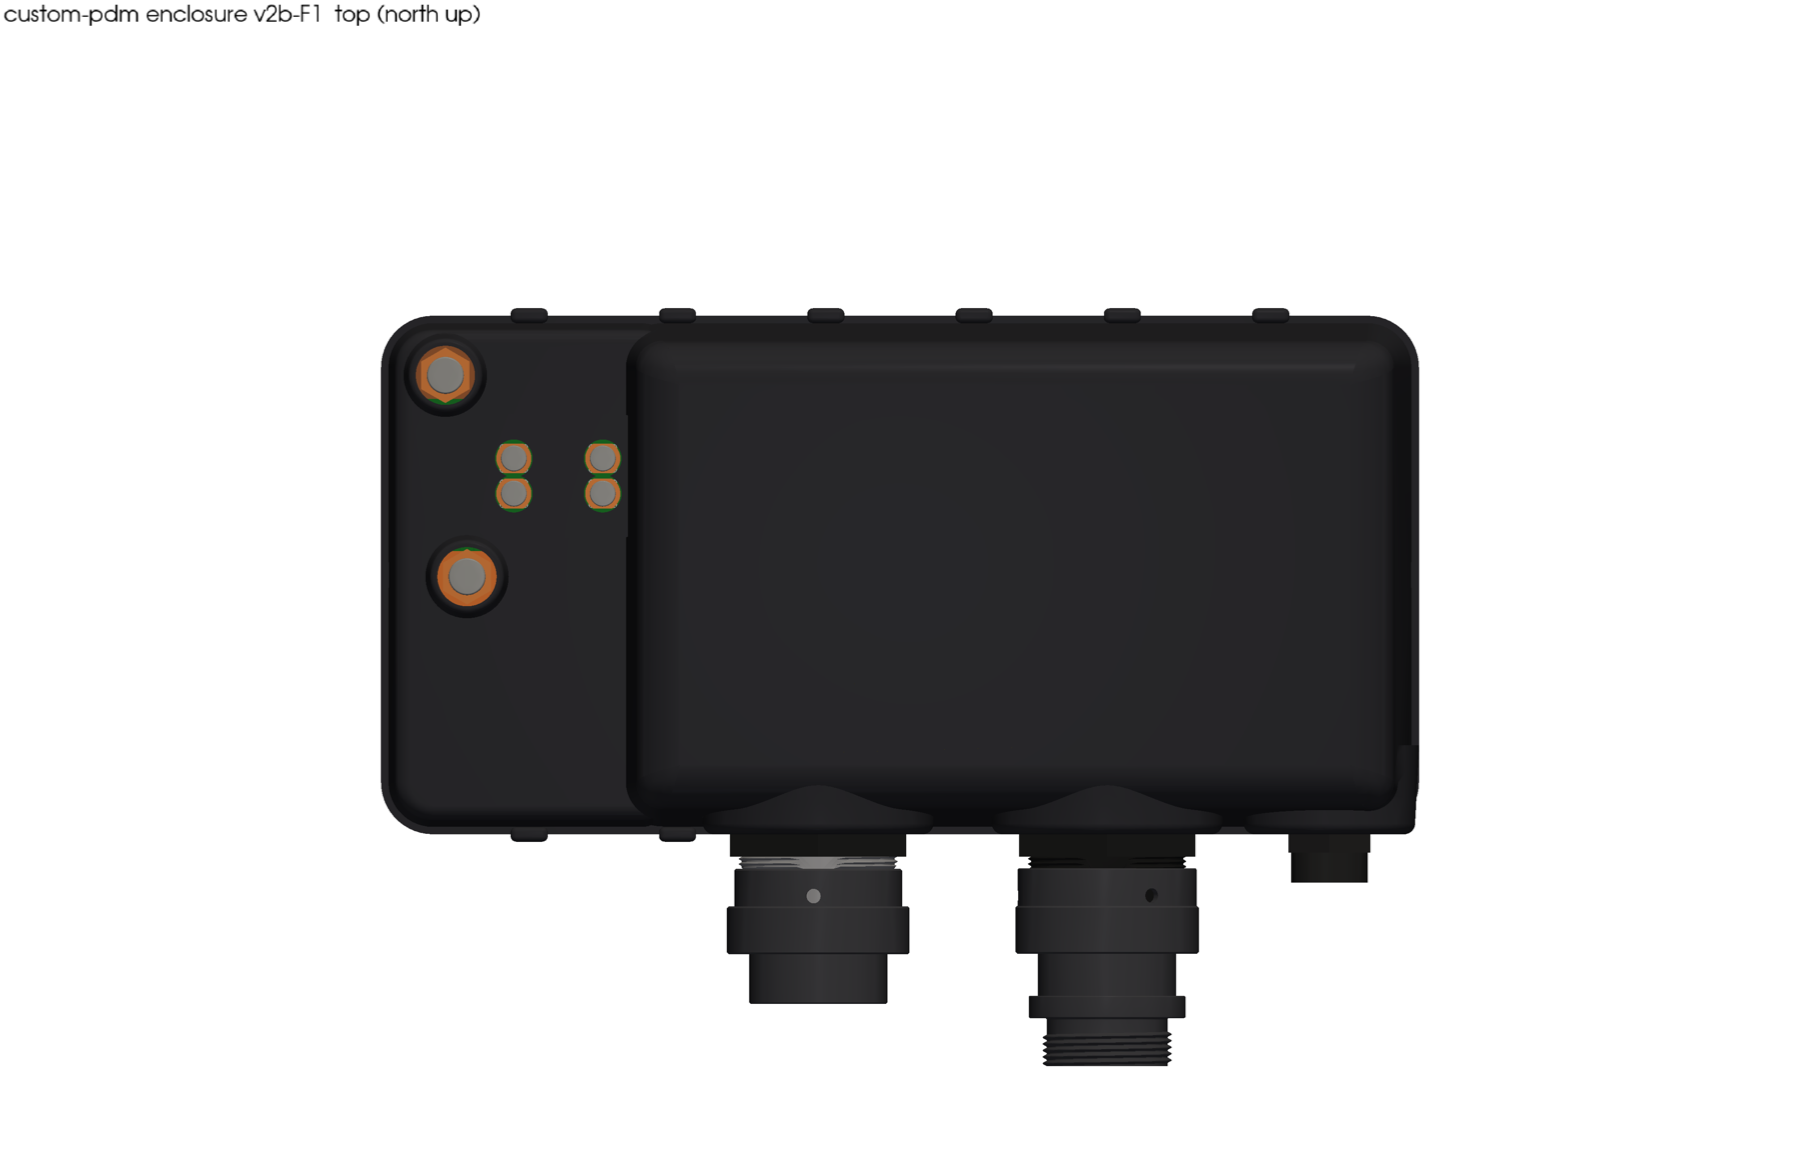
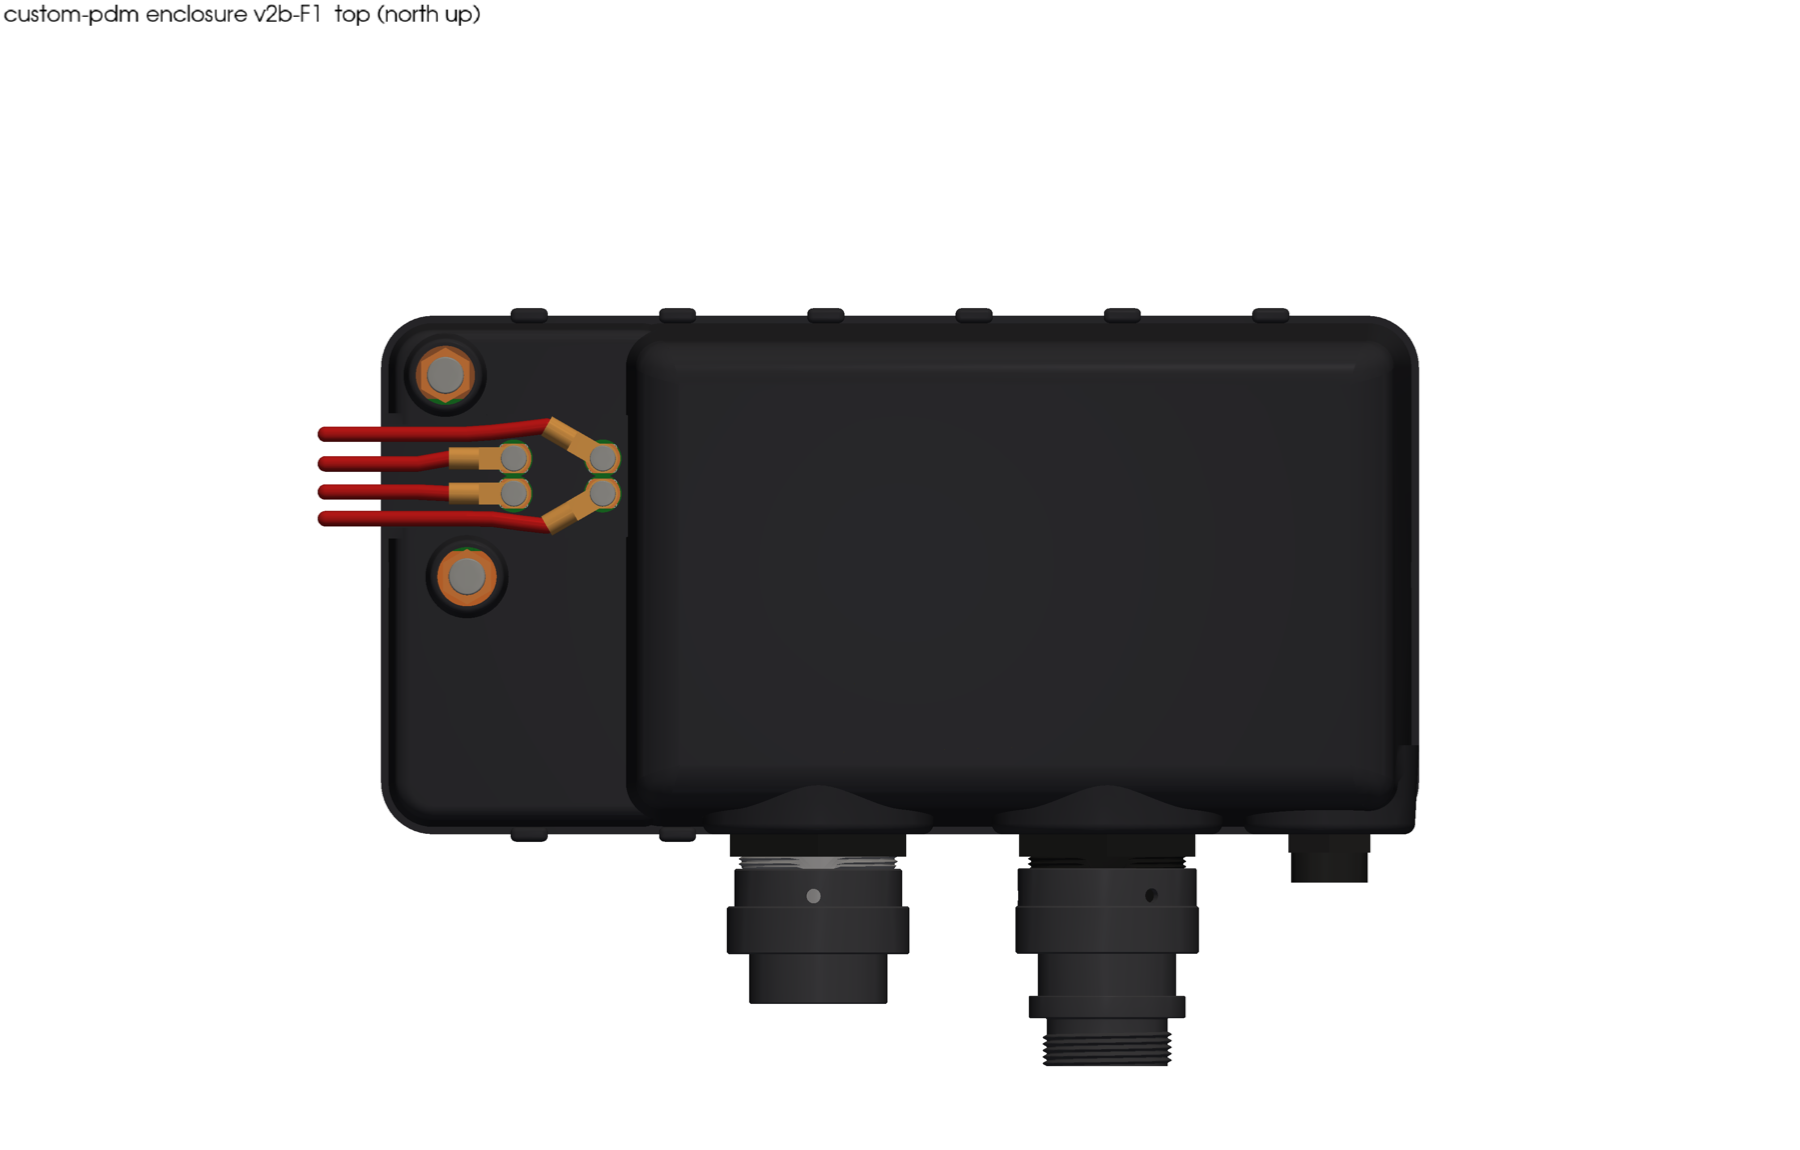
v2b F1: OUT1-4 wire-way to the west lid edge, ring lugs + 10 AWG wires modelled, renders (Dan review b1a-b4a)
Claude-Session: https://claude.ai/code/session_014aA8s43Q562Zi7DSgMxRgH

Changed region(s): [[0.1556, 0.3652, 0.3422, 0.487]]

diff --git a/enclosure/v2b/src/build_v2b.py b/enclosure/v2b/src/build_v2b.py
@@ -52,7 +52,9 @@ P = dict(
     deck_t=3.0, in_boss=4.0, so_m3_len=25.0,
     bar_t=5.0, batt_w=20.0, batt_yc=-63.5, gnd_w=15.0, gnd_yc=-5.0,   # copper bars (C110) 20x5 / 15x5, offset in Y to clear the OUT-bay liner
     boss6_af=13.0, boss4_d=9.5, boss4_flats=8.0, lug_t=2.0,
-    bay_floor_top=19.73,
+    bay_floor_top=19.2,      # OUT1-4 bay floor; lowered 0.53 so the ring-lug barrels (OD 6) clear it
+    out_lug_t=1.0, out_lug_w=8.0, out_lug_L=17.5, out_barrel_d=6.0, out_barrel_L=8.0, out_wire_d=4.2,   # Phoenix 3240083 M4 ring 10-14 AWG (catalogue dims); 10 AWG GXL OD ~4.2 ASSUMED
+    wireway_y0=-47.2, wireway_y1=-19.3,                      # OUT1-4 wire-way (Dan 2026-11-12): between the BATT and GND collars, open at the west lid edge
     corner_r=14.0, draft_deg=6.0, shoulder_z=10.0, shoulder_in=2.0,
     ribbon_w=28.0, ribbon_t=4.0,                               # flat taped wire ribbons (ASSUMED harness form)
 )
@@ -346,9 +348,34 @@ for k, (X, Y) in OUTT.items():
     bo = bo.cut(cyl(3.3, (X, Y, TTOP + L4 - 8), 8.1)).cut(cyl(3.3, (X, Y, TTOP - 0.1), 8.1))   # M4 tap drill 3.3 both ends
     bosses4.append(bo)
     scr.append(("M4 stud 11 (threaded rod)", cyl(4.0, (X, Y, TTOP - 6.0), 11.0)))   # 5 into the boss; lug screw 6 in; 1 mm gap
-    scr.append(("SSH-M4-0.7 x 8", shcs("M4", 8.0, (X, Y, TTOP + L4 + P["lug_t"]))))
+    scr.append(("SSH-M4-0.7 x 8", shcs("M4", 8.0, (X, Y, TTOP + L4 + P["out_lug_t"]))))
 addp("copper-boss-M4-OUT1-4", Compound(bosses4), (0.85, 0.5, 0.25), f"custom C110 copper boss dia {P['boss4_d']} with {P['boss4_flats']} flats (Y), M4 female both ends, 3-axis machinable")
 M6_EXT_TOP = P["collar_top"] + 1.0; M4_EXT_TOP = TTOP + 12.0
+# OUT1-4 ring lugs (Phoenix Contact 3240083, M4, 10-14 AWG; modelled from catalogue dims: 8.0 wide, 17.5 long, 0.99 thick) + 10 AWG wires to the west lid edge
+OB_TOP = TTOP + 12.0
+def ring_lug(X, Y, ang):
+    t, wdt, Lg, bd, bL = P["out_lug_t"], P["out_lug_w"], P["out_lug_L"], P["out_barrel_d"], P["out_barrel_L"]
+    pl = Plane(origin=(X, Y, OB_TOP), x_dir=(math.cos(math.radians(ang)), math.sin(math.radians(ang)), 0), z_dir=(0, 0, 1))
+    tongue = extrude(pl * Circle(wdt / 2), amount=t).solid()      # ring (OD = width 8.0)
+    tongue = tongue.fuse(extrude(pl * Pos((Lg - bL) / 2, 0) * Rectangle(Lg - bL, bd), amount=t).solid())
+    tongue = tongue.cut(cyl(4.3, (X, Y, OB_TOP - 1), t + 2))
+    d = Vector(math.cos(math.radians(ang)), math.sin(math.radians(ang)), 0)
+    b0 = Vector(X, Y, OB_TOP + bd / 2) + d * (Lg - bL)
+    barrel = Solid.make_cylinder(bd / 2, bL, Plane(origin=b0, z_dir=d))
+    return tongue.fuse(barrel), b0 + d * bL
+WZ = OB_TOP + P["out_barrel_d"] / 2                      # wire centre height (barrel axis)
+XE = LX0 - 15.0                                          # wires drawn 15 mm past the west lid edge
+LUGS = {"OUT2": 180.0, "OUT4": 180.0, "OUT1": 210.0, "OUT3": 150.0}
+LANE = {"OUT1": -44.8, "OUT2": -37.6, "OUT4": -30.0, "OUT3": -22.0}
+lugs, owires = [], []
+for k, ang in LUGS.items():
+    X, Y = OUTT[k]; lg, e = ring_lug(X, Y, ang); lugs.append(lg)
+    if k == "OUT1":   path = [(e.X, e.Y, WZ), (28.0, -46.0, WZ), (20.0, -44.9, WZ), (13.0, -44.8, WZ), (5.0, LANE[k], WZ), (XE, LANE[k], WZ)]
+    elif k == "OUT3": path = [(e.X, e.Y, WZ), (28.0, -20.6, WZ), (20.0, -21.5, WZ), (13.0, -22.0, WZ), (5.0, LANE[k], WZ), (XE, LANE[k], WZ)]
+    else:             path = [(e.X, e.Y, WZ), (0.0, LANE[k], WZ), (XE, LANE[k], WZ)]
+    owires.append(tube(path, P["out_wire_d"]))
+addp("ring-lugs-OUT1-4", Compound(lugs), (0.85, 0.6, 0.3), "Phoenix Contact 3240083 ring terminal M4, 10-14 AWG (no maker CAD reachable; modelled from catalogue dims 8.0 x 17.5 x 0.99, barrel OD 6 ASSUMED)", step=False)
+addp("wires-OUT1-4-10AWG", Compound(owires), (0.75, 0.1, 0.1), "OUT1-4 wires 10 AWG GXL (OD 4.2 ASSUMED), 31 A each, out through the lid wire-way to the west edge; ASSUMED routing", step=False)
 # T5-T8 ring lugs + M4 screws (v2b), wires to X1
 for k, (X, Y) in T58.items(): scr.append(("SSH-M4-0.7 x 8", shcs("M4", 8.0, (X, Y, TTOP + P["lug_t"]))))
 
@@ -426,8 +453,13 @@ bft = P["bay_floor_top"]
 well = dblock(bx0, bx1, by0, by1, bft, P["terrace_top"] + 5, r=4)
 liner = dblock(bx0 - w, bx1 + w, by0 - w, by1 + w, bft - w, P["terrace_top"] - 0.5, r=4 + w)
 lid = lid.fuse(liner).cut(well)
-xm = (OUTT["OUT1"][0] + OUTT["OUT2"][0]) / 2
-lid = lid.fuse(box(xm - 1.0, xm + 1.0, by0, by1, bft, P["terrace_top"] - 2.0))
+# (Grok's centre divider rib removed: the OUT1/OUT3 wires pass through there to the wire-way)
+# OUT1-4 wire-way (Dan 2026-11-12): open channel from the bay to the west lid edge, floor = bay floor, between the BATT and GND collars
+wy0, wy1 = P["wireway_y0"], P["wireway_y1"]
+ww_liner = box(LX0 + 0.5, bx0 + 1.0, wy0 - w, wy1 + w, bft - w, P["terrace_top"] - 0.5)
+lid = lid.fuse(ww_liner.cut(box(LX0 - 5, bx0 + 2, wy0, wy1, bft, 200)))
+ww = box(LX0 - 5, bx0 + 2.0, wy0, wy1, bft, P["terrace_top"] + 20)
+lid = lid.cut(ww)
 for k, (X, Y) in OUTT.items(): lid = lid.cut(cyl(10.2, (X, Y, bft - w - 1), w + 2))  # boss dia 9.5 + 0.35 clearance
 # panel cut-outs per TE spec 0425-021-0000 (shell 24): D-hole A 43.08, B 41.45 (flat 19.91 below centre, matching the thread flat in the TE models)
 DFLAT = {}

diff --git a/enclosure/v2b/src/render_v2b.py b/enclosure/v2b/src/render_v2b.py
@@ -9,7 +9,7 @@ from build123d import import_brep, Compound
 sys.path.insert(0, os.path.join(os.environ["CAD_HOME"], "tools", "render"))
 import section as SEC
 pv.OFF_SCREEN = True
-VAR = sys.argv[1]; which = sys.argv[2:] or ["iso", "iso_sw", "iso_ne", "iso_nw", "iso_open", "iso_open_nw", "lidT", "top", "front", "back", "left", "right", "sec_stack", "sec_stud", "under", "exploded"]
+VAR = sys.argv[1]; which = sys.argv[2:] or ["outbay", "iso", "iso_sw", "iso_ne", "iso_nw", "iso_open", "iso_open_nw", "lidT", "top", "front", "back", "left", "right", "sec_stack", "sec_stud", "under", "exploded"]
 HERE = os.path.dirname(os.path.abspath(__file__)); ROOT = os.path.abspath(os.path.join(HERE, ".."))
 OUT = os.path.join(os.environ.get("RUN_DIR", os.path.join(ROOT, "runs", "latest")), VAR)
 RD = os.environ.get("RENDER_DIR", os.path.join(OUT, "..", "renders")); os.makedirs(RD, exist_ok=True)
@@ -83,6 +83,10 @@ if "left" in which:
     scene(S, [(cx - 900, cy, 25), (cx, cy, 25), (0, 0, 1)], "left", T + "  left (west) end", parallel=True, zoom=1.9)
 if "right" in which:
     scene(S, [(cx + 900, cy, 25), (cx, cy, 25), (0, 0, 1)], "right", T + "  right (east) end", parallel=True, zoom=1.9)
+if "outbay" in which:                                # OUT1-4 bay + wire-way close-ups (Dan 2026-11-12 wire-way fix)
+    bx = (meta["OUTT"]["OUT1"][0] + meta["OUTT"]["OUT2"][0]) / 2 - 12; by = (meta["OUTT"]["OUT1"][1] + meta["OUTT"]["OUT3"][1]) / 2
+    scene(S, [(bx - 150, by - 170, 170), (bx, by, 22), (0, 0, 1)], "outbay-sw", T + "  OUT1-4 bay + wire-way to the west edge (from south-west)", zoom=1.0)
+    scene(S, [(bx - 150, by + 170, 150), (bx, by, 22), (0, 0, 1)], "outbay-nw", T + "  OUT1-4 bay + wire-way (from north-west)", zoom=1.0)
 if "iso_sw" in which:
     scene(S, [(cx - 330, cy - 420, 330), (cx, cy, 10), (0, 0, 1)], "iso-sw", T + "  iso (south-west)", zoom=1.25)
 if "iso_ne" in which:

diff --git a/docs/enclosure-v2b.md b/docs/enclosure-v2b.md
@@ -1,6 +1,6 @@
 # Enclosure v2b (Grok TEST 2 b based, Fusion, real vendor models)
 
-Status: build of 2026-11-12, branch `feat/enclosure-v2b`. Decisions behind it: `DECISIONS.md` 2026-11-12 (enclosure lines, h2a, v1-v5, A1a). Results, not decisions.
+Status: build of 2026-11-12, branch `feat/enclosure-v2b`. Decisions behind it: `DECISIONS.md` 2026-11-12 (enclosure lines, h2a, v1-v5, A1a; Dan's v2b review: b1a, b2a, b3a, b4a and the OUT1-4 wire-way). Results, not decisions.
 Scripts: `enclosure/v2b/src/` (build123d, WSL; `automation.yml` ids `enclosure-v2b-build`, `enclosure-v2b-render`). Vendor models: `enclosure/v2b/vendor/README.md`.
 Fusion: project `custom-pdm`, folder `enclosure-v2b`, design `custom-pdm-enclosure-v2b-F1` (imported from the build STEP).
 
@@ -24,7 +24,8 @@ Two base variants share everything above the base plate:
 | BATT / GND copper bars (20 x 5 / 15 x 5, C110) run B -> A1 -> A2 and land on every board's M6 feed terminals; OUT1-4 copper bosses sit straight on board B T1-T4 (tops in Grok's recessed terrace bay), so no straps are needed (p2a's straps fall away: the boss IS the covered terminal) | e4a, b1b, v2 / v3b |
 | Board A J3 and board B J6 bodies removed; flat taped wire ribbons from the pads to X1 / X2, tie points in the base | a1a, a2b, k1a |
 | One sealed USB-C bulkhead (Amphenol LTW UC-00PMFY-SC7001) at z 30 on the front wall + Adafruit 5997 hub, one USB cable per board | y1a (replaces Grok's 3 USB slots) |
-| Fans embedded in the sink (F1) or pocketed blowing up (F2) | v5 |
+| Fans embedded in the sink (F1) or pocketed blowing up (F2) | v5; F1 goes forward (b2a), F2 kept as an alternative only |
+| OUT1-4 wire-way: an open channel in the terrace from the OUT1-4 bay to the west lid edge (27.9 wide, floor z 19.2, 10.8 below the terrace top), between the BATT and GND collars; Grok's centre divider rib in the bay removed; bay floor 19.73 -> 19.2. The four ring lugs lie flat on the boss tops (z 20.73) and the 10 AWG wires leave horizontally at z 23.7 in four lanes (y -44.8 / -37.6 / -30.0 / -22.0); OUT1 / OUT3 lugs are turned 30 deg so their wires pass beside, not over, the OUT2 / OUT4 screws | Dan 2026-11-12: "the 4 terminals in the recess are too deep to connect a wire to; there needs to be a recess along the lid to the edge so there's a wire way" (t1a: lug flat, stud up) |
 | Input boards kept on Grok's deck (25 mm M3 standoffs on board H holes) | v2: no clash with the real connector models |
 
 ## 3. Size and mass
@@ -38,7 +39,7 @@ Two base variants share everything above the base plate:
 
 Mass: see section 6.
 
-## 4. Heat (same Elmer model as `docs/heat-analysis.md`, HEAT_GEOM v2b-F1 / v2b-F2; 60 C air; board-top under the hottest chip; Tj = that + about 1-2 K)
+## 4. Heat (unchanged by the wire-way: the lid is not in the heat model, the plate top inside the lid is adiabatic; same Elmer model as `docs/heat-analysis.md`, HEAT_GEOM v2b-F1 / v2b-F2; 60 C air; board-top under the hottest chip; Tj = that + about 1-2 K)
 
 Values: heat-sink max / board top under the hottest chip for gap-pad k = 1 / 3 / 6 W/mK (C). Tj limit 150 C.
 
@@ -64,7 +65,8 @@ Notes:
 F1 (final build): no unintended overlaps. Every remaining overlap is by design: screws and studs in their threads (copper bosses, M6 / M4 terminals on the boards, M3 into the sink and standoffs), the mating plugs seated in X1 / X2, wire ribbons soldered on the board pads, and USB cable ends entering the bulkhead, the hub and the three board USB-C receptacles (cable plugs are not modelled).
 Fixed in this build: F1 fan against a foot web (fans moved to mid +/-16 mm), USB-C cable through board A2 and through the terrace (bulkhead raised to z 30, cable lane at z 30 under the main lid and z 22 under the low terrace), USB cables against the B J6 ribbon (board lane at z 7.8), A2 ribbon against X2's rear body (routed 1 mm clear), B J6 ribbon against X2.
 F2 (final build): same result, no unintended overlaps. Fixed: the Noctua fan sat 1 mm into its four mounting posts (the public model is 16 mm tall, not 15); pocket and posts now sized to the model.
-Both Fusion designs (`custom-pdm-enclosure-v2b-F1`, `-F2`) hold these final builds.
+F1 rebuild with the OUT1-4 wire-way (2026-11-12, after Dan's review): still no unintended overlaps. New by-design overlaps: each 10 AWG wire end inside its ring-lug barrel (crimp), lugs touching their boss tops and screw heads. Closest new gaps: OUT1 wire to the wire-way wall 0.25 mm (flexible wire), OUT3 lug to the bay wall 0.65 mm, wires to the OUT2 / OUT4 screws 2.0 mm, wires to the bosses 2.4 mm. Fixed on the way: OUT3 and OUT1 wires against the wire-way walls (lanes re-spaced).
+Both Fusion designs (`custom-pdm-enclosure-v2b-F1`, `-F2`) hold these final builds. The F1 design does NOT yet have the wire-way version: the Fusion lock was held by another session (fusebox) during this fix; re-import `custom-pdm-enclosure-v2b-F1-assembly.step` from WSL `~/scratch/encl-v2b/runs/F1/` when the lock is free.
 
 ## 6. Parts (purchased parts from real models; see `enclosure/v2b/vendor/README.md` for sources and licences)
 
@@ -82,6 +84,8 @@ Both Fusion designs (`custom-pdm-enclosure-v2b-F1`, `-F2`) hold these final buil
 | Boards A1, A2, B, input boards | this repo | board STEPs (J3 DT15 / J6 Micro-Fit bodies removed, a1a / a2b) |
 | Heat-set inserts | M4 | modelled to standard dims |
 | Screws | ISO 4762 / threaded rod | build123d fasteners (screw_dimensions.csv) |
+| OUT1-4 ring lugs | Phoenix Contact 3240083 (M4, 10-14 AWG, non-insulated) | modelled from catalogue dims 8.0 x 17.5 x 0.99 (Digi-Key / TraceParts model page would not load; barrel OD 6 ASSUMED) |
+| OUT1-4 wires | 10 AWG GXL (31 A each) | OD 4.2 ASSUMED |
 | Copper bosses (custom, 3-axis mill) | M6: hex AF 13 x 15, M6 female both ends; M4: round 9.5 with 8 mm wrench flats, M4 female; C110 copper | this build |
 | Copper bars (custom) | BATT 20 x 5, GND 15 x 5, C110, insulating film under | this build |
 | Base (custom, one-piece 6061) | F1 / F2 | this build |
@@ -100,9 +104,14 @@ Mass of the made parts (densities Al 2.70, PA12 1.01, Cu 8.94 g/cm3; boards, con
 
 ## 7. Open items
 
+- Dan's v2b review (2026-11-12): b1a connectors sticking out 21 mm (61 mm with plugs) are fine; b2a F1 goes forward (F2 files kept, no more work); b3a gap pad k >= 3 W/mK; b4a no OUT1-4 straps (bosses straight on T1-T4).
+- OUT1-4 wire-way clearances: wire bottom 2.4 above the channel floor, wire top 4.2 below the terrace top; lug barrels 1.5 above the floor; M4 screw heads (top z 25.7) 4.3 below the terrace, reachable with a 3 mm hex key from above (nearest passing wire 4.9-5.9 mm from a screw axis, so a 10 mm socket only just fits at OUT4); adjacent lugs in a row 1.5 mm apart (use heat-shrink or insulated lugs).
+- BATT / GND collars: boss top z 39.23, 9.2 above the terrace, so their M6 lugs lie flat and the wires leave horizontally clear of the lid; open tool access from above; route those wires west, north or south (the main body starts about 40 mm east).
+
 - USB-C bulkhead, F1 Sunon fans and the TE panel nut are modelled from vendor drawings (no maker STEP reachable); check against real parts.
 - Wire ribbons and USB cable routes are ASSUMED forms (flat taped ribbons, 4 mm cables); real harness bend radii to check at build.
 - Panel-nut thickness ASSUMED 6 mm.
 - CNC check of the base and the copper bosses (cnc-part-check) still to run on the final pick.
+- Wire-way renders (2026-11-12): `enclosure-v2b-F1-outbay-sw.png`, `-outbay-nw.png`, `-iso.png`, `-iso-nw.png`, `-top.png`, `-section-OUT-bay.png`, `-section-BATT-stud.png` re-rendered; the other F1 views are from the build before the wire-way.
 - Renders: `docs/diagrams/enclosure-v2b-*.png` (F1 full set incl. sections through the BATT stud, the OUT bay and the board / sink stack; F2 iso, iso NW, lid off, underside, stack section). F2 renders are from the build before the 1 mm fan-post fix (not visible at render scale).
 - A1a (raised collars) recorded here: the M6 boss is 15 mm tall, 6 mm of the board stud thread below and 8 mm of the M6 x 10 lug screw above, with a 1 mm gap between.
